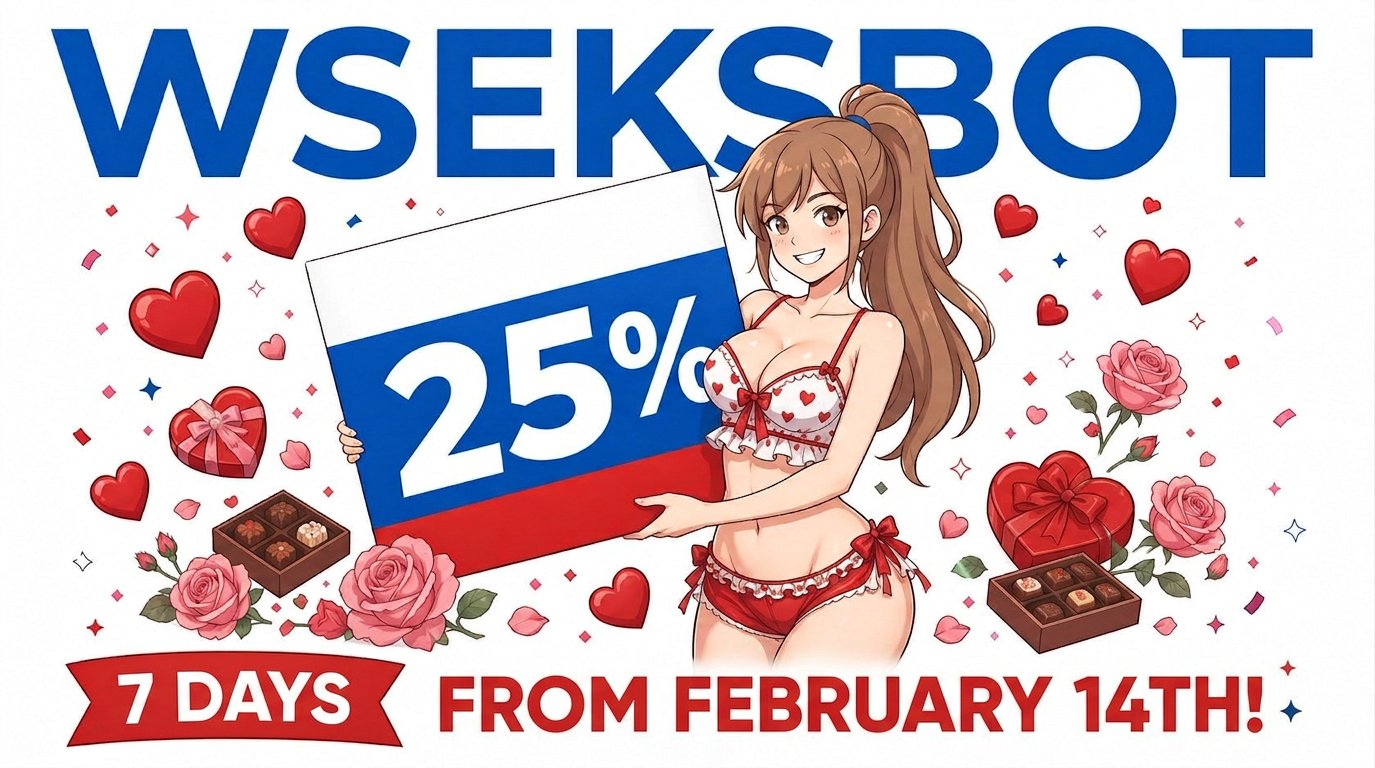
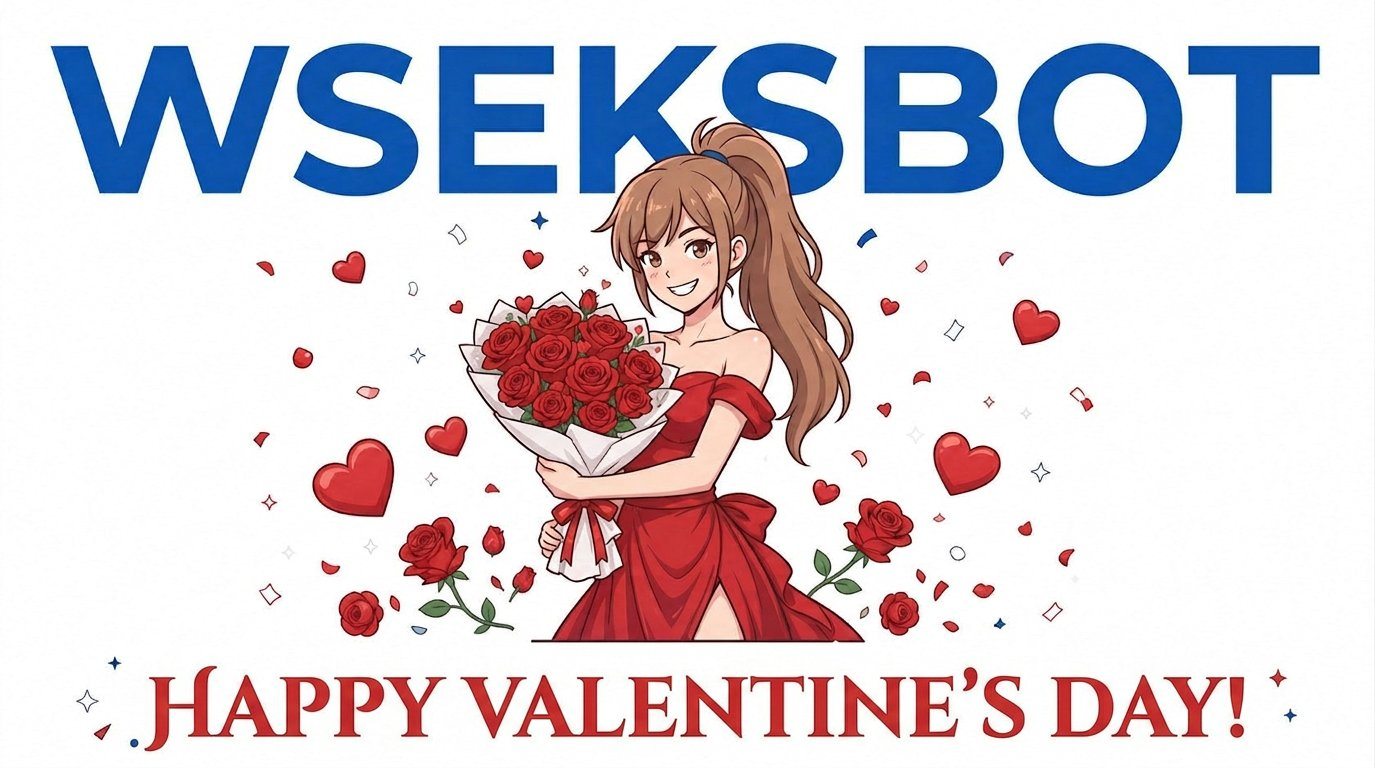
Скидки событий приведены к числам на постерах
- app/holidays.py: christmas 25%, new_year 30%, valentine 25%, feb_23 23%,
  mar_8 25%, apr_1 15%, cosmonautics 12%, may_9 45%, jun_1 15%, sep_1 20%,
  halloween 50%, nov_4 20% (было 10—20% - бот обещал меньше, чем на картинке);
  комментарий про обязательную синхронизацию скидки и постера;
- основной постер 14 февраля заменён на вариант с «25%» (прежний в запасные);
- тесты: test_catalog_discounts_match_posters фиксирует соответствие,
  приветственный блок проверяет скидку из каталога; всего 200 passed;
- CHANGELOG.md и CURRENT_VERSION обновлены до v3.37.0-poster-discounts.

diff --git a/app/holidays.py b/app/holidays.py
@@ -67,55 +67,61 @@ class HolidaySpec:
 
 # Окна подобраны так, чтобы события не пересекались и длились ~неделю,
 # а праздник попадал в конец окна (скидки действуют до и в сам день).
+#
+# ВАЖНО: `discount_percent` — ровно то число, что напечатано на основном
+# постере праздника в папке «постеры/» (прочитано с картинок). Если менять
+# скидку здесь, постер надо перерисовывать вместе с ней — иначе бот в
+# сообщении обещает одно, а пользователь видит на картинке другое.
+# Рассинхрон ловит тест test_catalog_discounts_match_posters.
 HOLIDAYS: list[HolidaySpec] = [
     HolidaySpec(
         slug="christmas",
         name="🎅 Рождественская распродажа",
         description="Рождественская распродажа: праздничные скидки в магазине — успей до конца недели!",
         start_md=(12, 22), end_md=(12, 29),
-        discount_percent=15, poster="christmas.jpg",
+        discount_percent=25, poster="christmas.jpg",
     ),
     HolidaySpec(
         slug="new_year",
         name="🎄 Новогодняя неделя",
         description="Новогодняя неделя в боте! Запасайся монетами, забирай VIP по праздничной цене и открывай лутбоксы — скидки всю неделю.",
         start_md=(12, 30), end_md=(1, 6),
-        discount_percent=20, poster="new_year.jpg",
+        discount_percent=30, poster="new_year.jpg",
     ),
     HolidaySpec(
         slug="valentine",
         name="💝 Неделя ко Дню святого Валентина",
         description="Неделя ко Дню всех влюблённых: скидки на всё в магазине — порадуй себя и того, кто тебе дорог!",
         start_md=(2, 7), end_md=(2, 14),
-        discount_percent=15, poster="valentine.jpg",
+        discount_percent=25, poster="valentine.jpg",
     ),
     HolidaySpec(
         slug="feb_23",
         name="⭐ Неделя к 23 Февраля",
         description="Праздничная неделя ко Дню защитника Отечества: скидки на всё в магазине — порадуй себя и друзей!",
         start_md=(2, 17), end_md=(2, 24),
-        discount_percent=15, poster="feb_23.jpg",
+        discount_percent=23, poster="feb_23.jpg",
     ),
     HolidaySpec(
         slug="mar_8",
         name="🌷 Неделя к 8 Марта",
         description="Праздничная неделя к Международному женскому дню: весенние скидки на всё в магазине!",
         start_md=(3, 2), end_md=(3, 9),
-        discount_percent=15, poster="mar_8.jpg",
+        discount_percent=25, poster="mar_8.jpg",
     ),
     HolidaySpec(
         slug="apr_1",
         name="😂 Неделя смеха",
         description="Первоапрельская неделя: несерьёзные цены — серьёзные скидки на всё в магазине!",
         start_md=(3, 29), end_md=(4, 5),
-        discount_percent=10, poster="apr_1.jpg",
+        discount_percent=15, poster="apr_1.jpg",
     ),
     HolidaySpec(
         slug="cosmonautics",
         name="🚀 Неделя ко Дню космонавтики",
         description="Неделя ко Дню космонавтики: скидки на всё — взлетаем вместе с ценами вниз!",
         start_md=(4, 6), end_md=(4, 13),
-        discount_percent=10, poster="cosmonautics.jpg",
+        discount_percent=12, poster="cosmonautics.jpg",
     ),
     HolidaySpec(
         slug="may_1",
@@ -129,28 +135,28 @@ HOLIDAYS: list[HolidaySpec] = [
         name="🎖 Неделя к 9 Мая",
         description="Праздничная неделя ко Дню Победы: скидки в магазине — с праздником!",
         start_md=(5, 3), end_md=(5, 10),
-        discount_percent=15, poster="may_9.jpg",
+        discount_percent=45, poster="may_9.jpg",
     ),
     HolidaySpec(
         slug="jun_1",
         name="☀ Летняя неделя скидок",
         description="Неделя к 1 июня: летние скидки на всё — начни лето с обновками в боте!",
         start_md=(5, 26), end_md=(6, 2),
-        discount_percent=10, poster="jun_1.jpg",
+        discount_percent=15, poster="jun_1.jpg",
     ),
     HolidaySpec(
         slug="sep_1",
         name="📚 Неделя к 1 Сентября",
         description="Неделя ко Дню знаний: скидки на всё — начни сезон с обновками!",
         start_md=(8, 26), end_md=(9, 2),
-        discount_percent=10, poster="sep_1.jpg",
+        discount_percent=20, poster="sep_1.jpg",
     ),
     HolidaySpec(
         slug="halloween",
         name="🎃 Неделя Хэллоуина",
         description="Жуткая неделя скидок: Хэллоуин в боте — монеты и VIP по сниженным ценам!",
         start_md=(10, 25), end_md=(10, 31),
-        discount_percent=15, poster="halloween.jpg",
+        discount_percent=50, poster="halloween.jpg",
     ),
     HolidaySpec(
         # Окно сдвинуто на 1–8 ноября: раньше было 29.10–5.11 и пересекалось
@@ -159,7 +165,7 @@ HOLIDAYS: list[HolidaySpec] = [
         name="🎆 Неделя к 4 Ноября",
         description="Праздничная неделя ко Дню народного единства: осенние скидки в магазине!",
         start_md=(11, 1), end_md=(11, 8),
-        discount_percent=15, poster="nov_4.jpg",
+        discount_percent=20, poster="nov_4.jpg",
     ),
 ]
 

diff --git a/app/tests/test_localized_posters.py b/app/tests/test_localized_posters.py
@@ -151,3 +151,28 @@ def test_halloween_and_november_windows_do_not_clash():
     assert (hw_start + timedelta(hours=3)).date() == date(2026, 10, 25)
     assert (nv_start + timedelta(hours=3)).date() == date(2026, 11, 1)
     assert (nv_start + timedelta(hours=3)).date() <= date(2026, 11, 4) <= (nv_end + timedelta(hours=3)).date()
+
+
+def test_catalog_discounts_match_posters():
+    """Скидка в каталоге равна числу, напечатанному на основном постере.
+
+    Числа прочитаны с постеров в «постеры/» через OCR. Менять скидку нужно
+    в двух местах сразу — в каталоге и на картинке, иначе пользователь видит
+    на постере одно, а бот начисляет другое.
+    """
+    expected = {
+        "christmas": 25,
+        "new_year": 30,
+        "valentine": 25,
+        "feb_23": 23,
+        "mar_8": 25,
+        "apr_1": 15,
+        "cosmonautics": 12,
+        "may_1": 15,
+        "may_9": 45,
+        "jun_1": 15,
+        "sep_1": 20,
+        "halloween": 50,
+        "nov_4": 20,
+    }
+    assert {spec.slug: spec.discount_percent for spec in HOLIDAYS} == expected

diff --git a/app/tests/test_events_automation.py b/app/tests/test_events_automation.py
@@ -253,7 +253,8 @@ def test_event_card_and_welcome_block_are_translated():
         assert "Скидка" in card
         welcome = build_event_welcome_block(ev)
         assert "Сейчас идёт событие" in welcome
-        assert "20%" in welcome
+        # Скидка берётся из каталога (и совпадает с числом на постере).
+        assert f"{spec.discount_percent}%" in welcome
     with language_scope("en"):
         card = build_event_promo_text(ev)
         assert "New Year week" in card

diff --git a/app/release_notes.py b/app/release_notes.py
@@ -11,7 +11,7 @@ from app.i18n import t
 # поэтому будущим агентам достаточно:
 # 1) обновить CURRENT_VERSION при релизе,
 # 2) добавить записи в CHANGELOG.md.
-CURRENT_VERSION = "v3.36.0-poster-catalog"
+CURRENT_VERSION = "v3.37.0-poster-discounts"
 CURRENT_STATUS = "Актуальная боевая сборка"
 
 _CHANGELOG_PATH = Path(__file__).resolve().parent.parent / "CHANGELOG.md"

diff --git a/CHANGELOG.md b/CHANGELOG.md
@@ -5,6 +5,7 @@
 > Формат записи: одна строка `* **ГГГГ-ММ-ДД** — описание`. Без HTML-тегов (`<` / `>`), код — в backticks. Спецсимволы экранируются при выводе, но лучше их избегать.
 
 ## Последние изменения
+* **2026-10-20** — Скидки праздничных событий приведены к числам, напечатанным на постерах: Рождество 25%, Новый год 30%, 14 февраля 25%, 23 февраля 23%, 8 марта 25%, 1 апреля 15%, 12 апреля 12%, 9 мая 45%, 1 июня 15%, 1 сентября 20%, Хэллоуин 50%, 4 ноября 20% (в каталоге было 10—20%, из-за чего бот в сообщении обещал меньше, чем написано на картинке). У 1 мая скидка оставлена 15% — на его постере числа нет. Основной постер 14 февраля заменён на вариант с «25%», предыдущий ушёл в запасные. В `app/holidays.py` добавлено предупреждение: скидку надо менять вместе с постером, рассинхрон ловит тест `test_catalog_discounts_match_posters`. Версия `v3.37.0-poster-discounts`.
 * **2026-10-20** — Постеры из папки «Постеры» разложены по каталогу праздников и переименованы в `mar_8.jpg`, `apr_1.jpg`, `christmas.jpg`, `new_year.jpg`, `feb_23.jpg`, `may_1.jpg`, `may_9.jpg`, `jun_1.jpg`, `sep_1.jpg`, `nov_4.jpg` (второй вариант каждого идёт с суффиксом `_2` и лежит запасным), поэтому теперь они подменяются в боте сами: в приветствии при /start, в рекламе между видео и в рассылке. Текст с картинок прочитан через OCR, и по нему в `app/holidays.py` добавлены три праздника, под которые постеры тоже были нарисованы: День святого Валентина (14 февраля), День космонавтики (12 апреля) и Хэллоуин (31 октября) — с английскими названиями и описаниями в `app/i18n_en.py`. Окно «4 Ноября» сдвинуто на 1—8 ноября: прежнее 29.10—5.11 накладывалось на Хэллоуин. Удалены прежние самодельные `banners/en/`: английские версии теперь только ваши, все 13 праздников закрыты и по-русски, и по-английски. 2 новых теста, всего 199 passed. Версия `v3.36.0-poster-catalog`.
 * **2026-10-20** — Все 25 постеров из папки «Постеры» перенесены в репозиторий `постеры/` и переведены на английский нейросетью одним и тем же промптом: «Переведи текст отсюда на английский». Готово 24 из 25 — постер `IMG_20261019_081051_488` модель стабильно отклоняет фильтром контента (на четырёх попытках вернула текст вместо картинки), его перевод доделаем отдельно. Английские копии лежат в `постеры/en/` и подхватываются автоматически для пользователей с языком EN; сама папка `постеры/` приоритетнее `banners/`, поэтому картинки можно обновлять без правки кода и каталога праздников. Файлы пока под исходными именами `IMG_...`: после указания, какой постер к какому празднику, они будут переименованы в `mar_8.jpg`, `new_year.jpg` и т.д. и начнут сами подменяться в приветствии и рекламе во время события. Версия `v3.35.0-user-posters`.
 * **2026-10-20** — Постеры и баннеры переведены на английский нейросетью: у всех 10 праздников из каталога появились копии в `banners/en/` (`christmas`, `new_year`, `feb_23`, `mar_8`, `apr_1`, `may_1`, `may_9`, `jun_1`, `sep_1`, `nov_4`), заголовки сверены с английскими названиями событий в боте (например «Back-to-school week», «Victory Day week»). `resolve_poster` и `resolve_event_poster` в `app/holidays.py` принимают язык и сначала ищут файл в подпапке `en/` (сначала «постеры/en/», затем «banners/en/»), а если перевода нет — отдают русский оригинал: переводить новый постер не обязательно, отсутствие файла ни на что не влияет. Язык подхватывается из контекста апдейта, поэтому английский постер теперь уходит и в приветствии /start, и в рекламе между видео; рассылка о событии и пул авто-ротации готовят текст с постером отдельно для каждого языка (`get_auto_broadcast_pool(session, lang=...)`, воркер в `app/main.py` группирует пользователей по языку). Код уже умеет подхватывать локализованный баннер приветствия `app/banner_en.jpg`. 8 новых тестов в `app/tests/test_localized_posters.py`, всего 197 passed. Версия `v3.34.0-localized-posters`.
